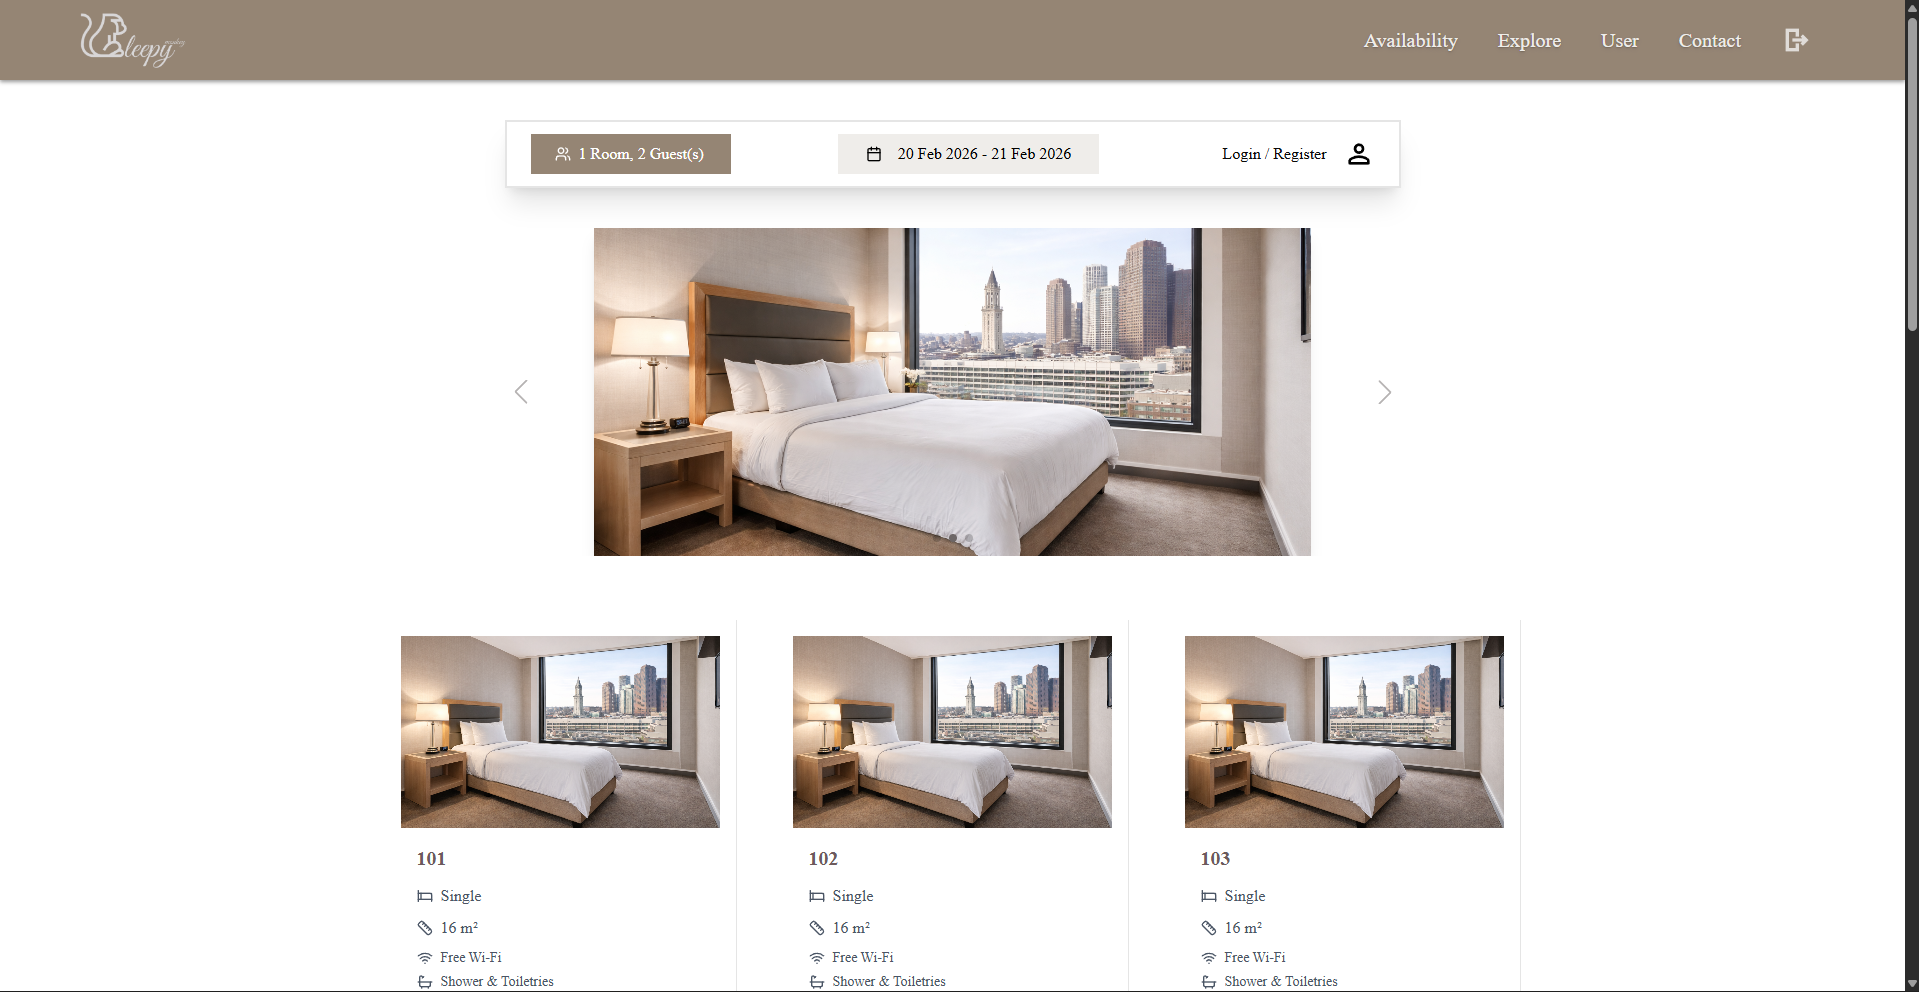
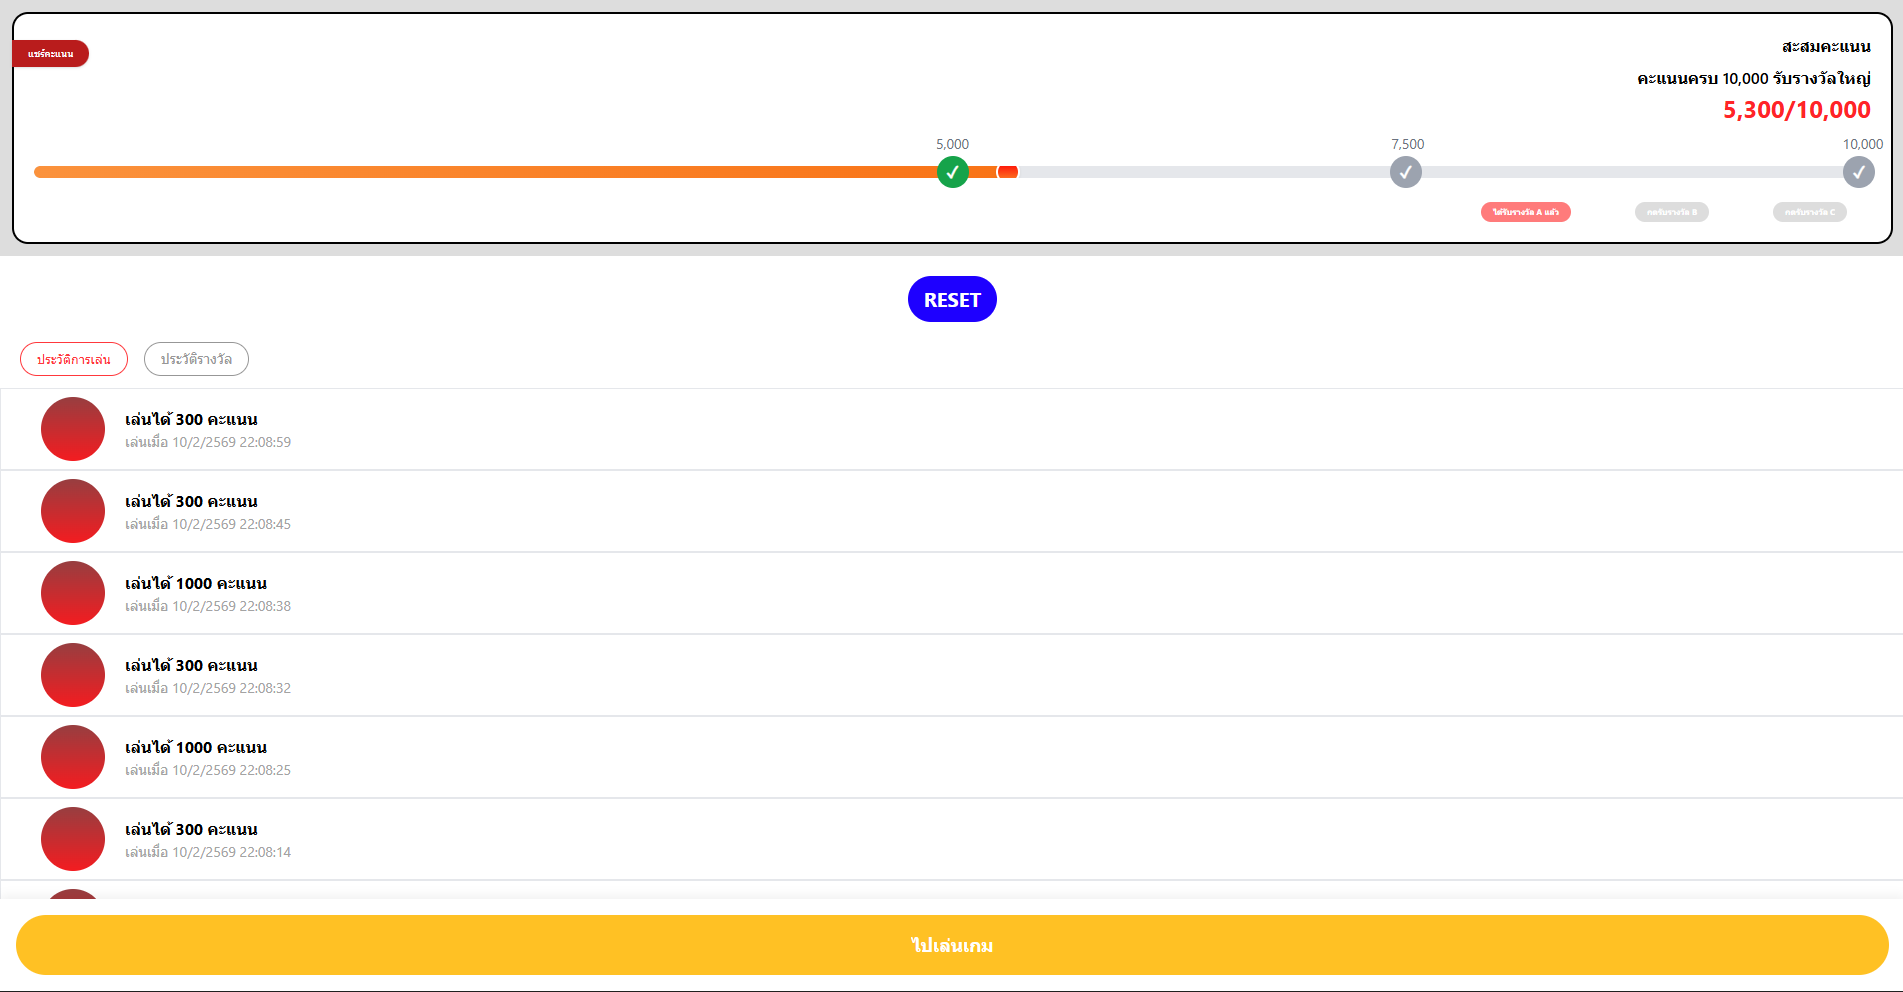
feat(projects): add project data structure and showcase content

diff --git a/src/lib/data/projects.js b/src/lib/data/projects.js
@@ -2,84 +2,140 @@ export const projects = [
     {
         id: 1,
         number: "01",
-        category: "Web",
-        title: "Hotel Booking Website",
+        category: "Full - Stack Web",
+        title: "Nextzy Gamification Test",
         tech: [
-        "HTML",
-        "CSS",
-        "TailwindCSS",
-        "React JS",
-        "Express",
-        "Node JS",
-        "MongoDB",
-        "Github",
-        " and Figma",
+        "Next.js",
+        "TypeScript",
+        "Tailwind CSS",
+        "JavaScript",
+        "NestJS",
+        "Node.js",
+        "PostgreSQL",
+        "Prisma ORM",
+        "Render",
+        "Git & Github",
+        " and Figma.",
         ],
         image: "project-001.png",
-        link: "#",
+        link: "https://github.com/Pannnomaly/nextzy-gamification",
     },
     {
         id: 2,
         number: "02",
-        category: "Web",
-        title: "Restaurant Website",
+        category: "Full - Stack Web",
+        title: "Hotel Booking Website",
         tech: [
-        "HTML",
-        "CSS",
+        "HTML5",
+        "CSS3",
+        "Tailwind CSS",
         "JavaScript",
-        "GSAP",
-        "Swiper JS",
-        "Figma",
+        "React",
+        "Node.js",
+        "Express.js",
+        "MongoDB",
+        "Mongoose",
+        "Git & Github",
+        " and Figma.",
         ],
         image: "project-002.png",
-        link: "#",
+        link: "https://github.com/Pannnomaly/GroupProject-6-React",
     },
     {
         id: 3,
         number: "03",
-        category: "Web",
-        title: "test003 Website",
+        category: "Full - Stack Web",
+        title: "RAG - Project",
         tech: [
-        "HTML",
-        "CSS",
+        "HTML5",
+        "CSS3",
+        "Tailwind CSS",
         "JavaScript",
-        "GSAP",
-        "Swiper JS",
-        "Figma",
+        "React",
+        "Node.js",
+        "Express.js",
+        "MongoDB",
+        "Mongoose",
+        "Git & Github",
+        " and Google Gemini API",
         ],
         image: "project-003.png",
-        link: "#",
+        link: "https://github.com/Pannnomaly/frontend-react-app",
     },
     {
         id: 4,
         number: "04",
-        category: "Web",
-        title: "test004 Website",
+        category: "Frontend Web",
+        title: "Online Flower Shop Website",
         tech: [
-        "HTML",
-        "CSS",
+        "HTML5",
+        "CSS3",
+        "Tailwind CSS",
         "JavaScript",
-        "GSAP",
-        "Swiper JS",
-        "Figma",
+        "React",
+        "Node.js",
+        "Git & Github",
+        " and Figma.",
         ],
         image: "project-004.png",
-        link: "#",
+        link: "https://github.com/Pannnomaly/dribbble-project-react",
     },
     {
         id: 5,
         number: "05",
-        category: "Web",
-        title: "test005 Website",
+        category: "Frontend Web",
+        title: "React Assessment (CRUD operations)",
         tech: [
-        "HTML",
-        "CSS",
+        "HTML5",
+        "CSS3",
+        "Tailwind CSS",
         "JavaScript",
-        "GSAP",
-        "Swiper JS",
-        "Figma",
+        "React",
+        "Node.js",
+        " and Git & Github",
         ],
         image: "project-005.png",
-        link: "#",
+        link: "https://github.com/Pannnomaly/39-pann-react",
+    },
+    {
+        id: 6,
+        number: "06",
+        category: "Logic",
+        title: "Dice Roller App (Learn JS DOM)",
+        tech: [
+        "HTML5",
+        "CSS3",
+        "JavaScript",
+        "Node.js",
+        " and Git & Github",
+        ],
+        image: "project-006.png",
+        link: "https://github.com/Pannnomaly/jsd11-dice-roller",
+    },
+    {
+        id: 7,
+        number: "07",
+        category: "Logic",
+        title: "Find Your Hat (JavaScript Logic)",
+        tech: [
+        "JavaScript",
+        "Node.js",
+        " and Git & Github",
+        ],
+        image: "project-007.png",
+        link: "https://github.com/Pannnomaly/39-Pann-find-your-hat",
+    },
+    {
+        id: 8,
+        number: "08",
+        category: "My First Project",
+        title: "Colrmar Academy (Styling Test)",
+        tech: [
+        "HTML5",
+        "CSS3",
+        " and Git & Github",
+        ],
+        image: "project-008.png",
+        link: "https://github.com/Pannnomaly/39-pann-colmar",
     },
 ];

diff --git a/src/components/ProjectSlider.jsx b/src/components/ProjectSlider.jsx
@@ -13,6 +13,7 @@ export default function ProjectSlider() {
             modules={[Navigation, Pagination, Autoplay]}
             spaceBetween={24}
             slidesPerView="auto"
+            autoHeight={false}
             slidesPerGroup={1}
             centeredSlides={true}
             grabCursor
@@ -34,8 +35,8 @@ export default function ProjectSlider() {
             className="project-swiper w-full"
         >
             {projects.map((project) =>(
-                <SwiperSlide key={project.id} className="w-full md:!w-[450px] lg:!w-[550px]">
-                    <article className="relative bg-(--container-color) p-6 rounded-[3rem] overflow-hidden px-4 md:p-8 lg:p-10 lg:rounded-[4rem]">
+                <SwiperSlide key={project.id} className="w-full md:!w-[450px] lg:!w-[550px] !h-auto flex">
+                    <article className="relative bg-(--container-color) p-6 rounded-[3rem] overflow-hidden px-4 md:p-8 lg:p-10 lg:rounded-[4rem] flex flex-col w-full h-full">
                         <div id="blob-animate-project"></div>
 
                         <div className="relative z-10 flex items-center justify-between">
@@ -43,15 +44,15 @@ export default function ProjectSlider() {
                             <h3 className="text-[1.25rem] md:text-[1.5rem] lg:text-[1.75rem] font-normal">{project.category}</h3>
                         </div>
 
-                        <div className="relative z-10 my-8">
-                            <h1 className="text-[1.75rem] md:text-[2.25rem] lg:text-[2.75rem] xl:text-[3rem] mb-4">{project.title}</h1>
-                            <p className="font-unbounded text-[1.25rem] md:text-[1.5rem] lg:text-[1.75rem] mb-2">Technologies used</p>
-                            <p className="text-[1.25rem] md:text-[1.5rem] lg:text-[1.75rem]">{project.tech.join(", ")}</p>
+                        <div className="relative z-10 my-8 flex-1">
+                            <h1 className="text-[1.75rem] md:text-[2.25rem] lg:text-[2.5rem] mb-4">{project.title}</h1>
+                            <p className="font-unbounded text-[1.25rem] md:text-[1.5rem] mb-2">Technologies used</p>
+                            <p className="text-[1.25rem] md:text-[1.5rem]">{project.tech.join(", ")}</p>
                         </div>
 
-                        <div id="project-image" className="relative z-10">
-                            <img className="w-full h-full object-cover rounded-3xl lg:rounded-4xl" src={project.image} alt={project.title} />
-                            <a id="project-button" href="#" target="_blank">
+                        <div id="project-image" className="relative z-10 aspect-video overflow-hidden">
+                            <img className="w-full h-full object-fill rounded-3xl lg:rounded-4xl" src={project.image} alt={project.title} />
+                            <a id="project-button" href={project.link} target="_blank">
                                 <svg className="w-5 h-5 md:w-7 md:h-7 shrink-0" xmlns="http://www.w3.org/2000/svg" viewBox="0 0 24 24" fill="currentColor"><path d="M5.63589 19.7784L4.22169 18.3644L15.657 6.92908L10.0712 6.92908V4.92908L19.0712 4.92908L19.0712 13.9291H17.0712L17.0712 8.34326L5.63589 19.7784Z"></path></svg>
                             </a>
                         </div>

diff --git a/src/index.css b/src/index.css
@@ -116,8 +116,8 @@
 }
 
 #blob-animate-project {
-    width: 325px;
-    height: 325px;
+    width: 330px;
+    height: 330px;
     background: linear-gradient(180deg, var(--first-color-alt) 0%, var(--first-color-light) 100%);
     border-radius: 50%;
     position: absolute;
@@ -182,6 +182,11 @@
         top: 1.5rem;
         right: 1.5rem;
     }
+
+    #blob-animate-project {
+        width: 350px;
+        height: 350px;
+    }
 }
 
 /* desktop */
@@ -196,6 +201,11 @@
         width: 250px;
         height: 250px;
         filter: blur(50px);
+    }
+
+    #blob-animate-project {
+        width: 375px;
+        height: 375px;
     }
 }
 
